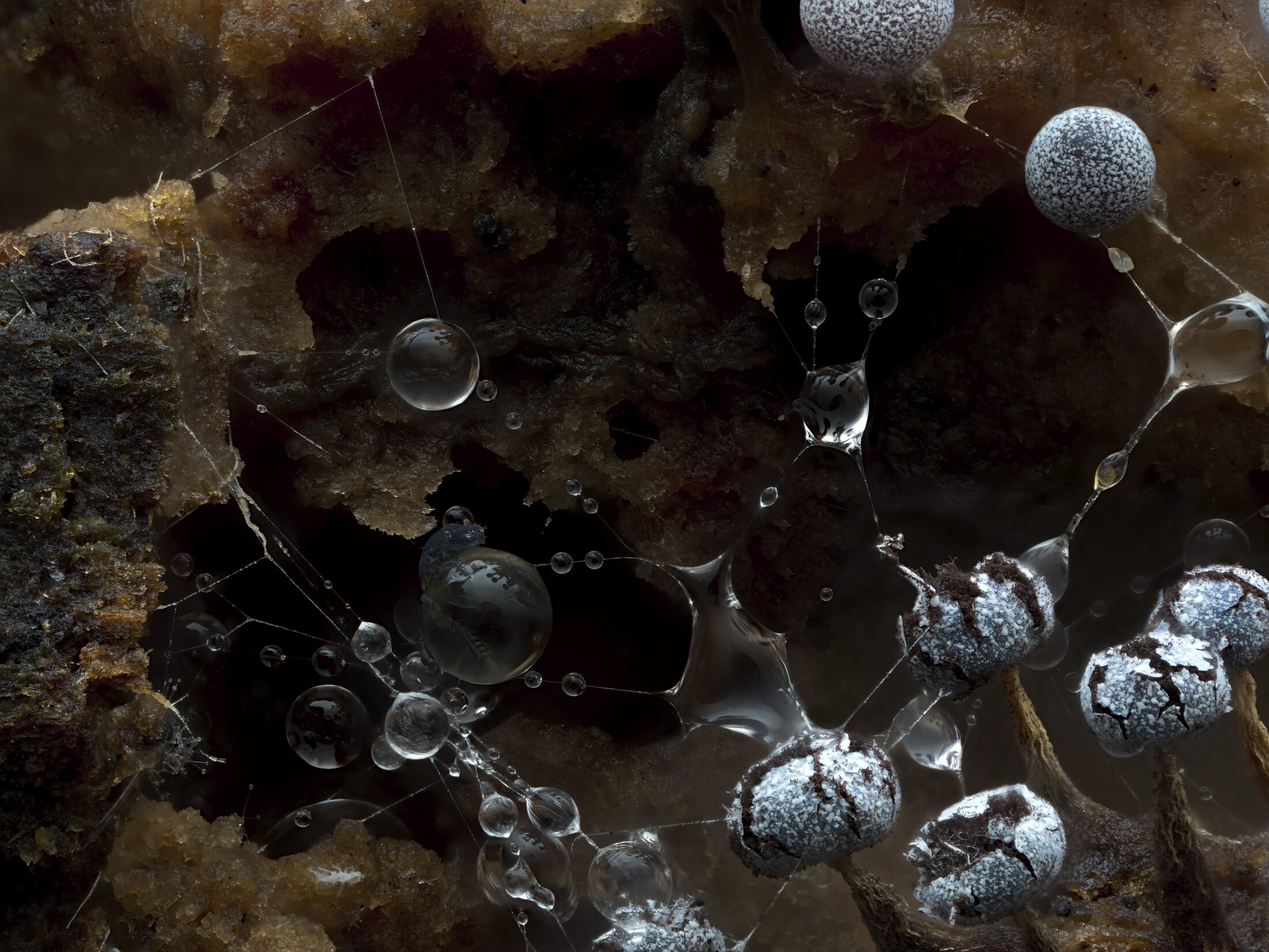
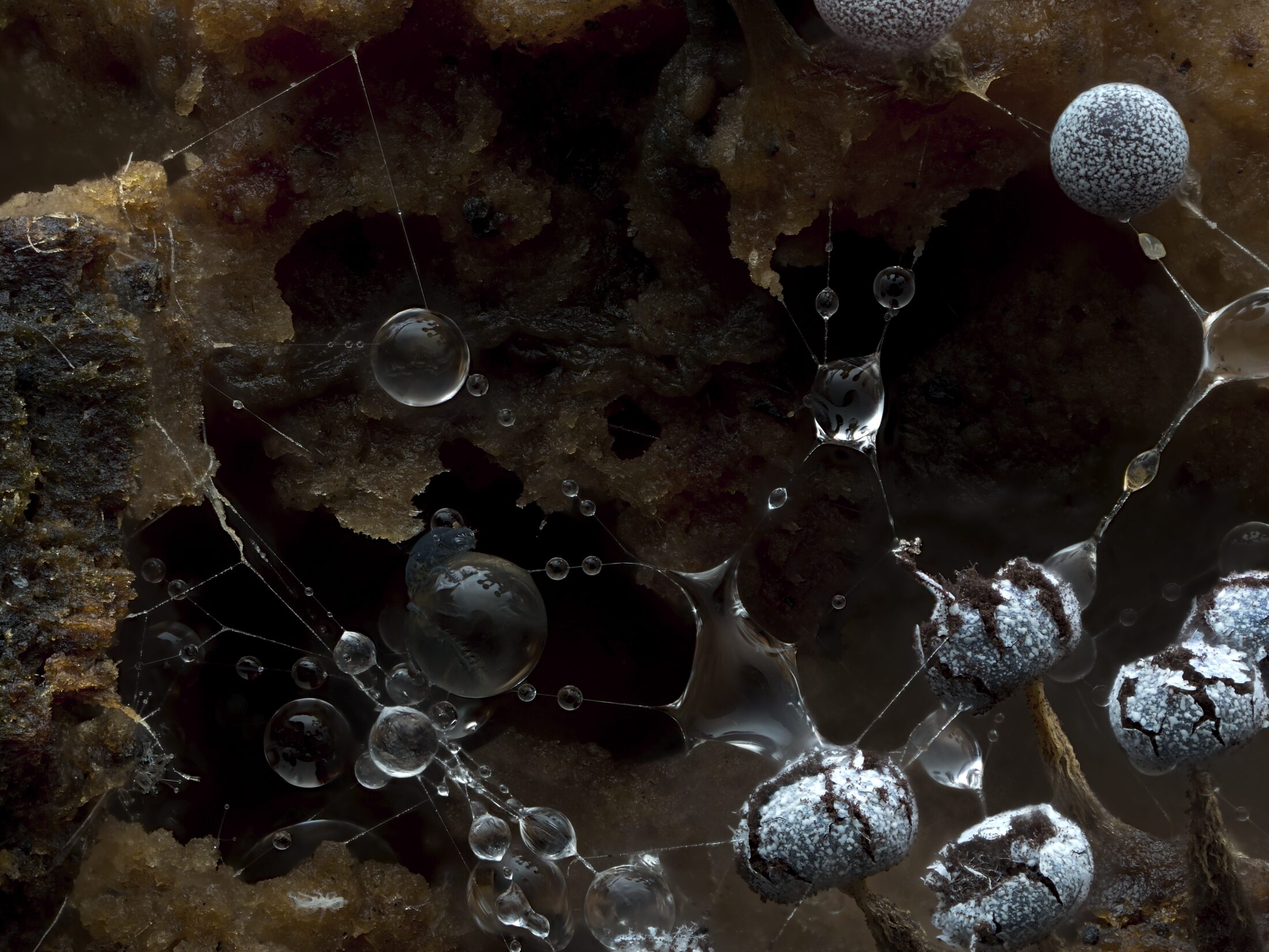
feat: hide photo on mobile, gentle desktop crop

diff --git a/index.html b/index.html
@@ -38,19 +38,12 @@
         display: block;
       }
       .bg {
-        position: static;
-        display: block;
-      }
-      .bg img {
-        width: calc(100% - 24px);
-        max-width: none;
-        max-height: none;
-        margin: 12px auto 0;
+        display: none;
       }
       main {
         width: 100%;
         margin: 0;
-        padding: 1.75rem 1.25rem 2.5rem;
+        padding: 2.5rem 1.25rem 2.5rem;
       }
     }
     .frame {
